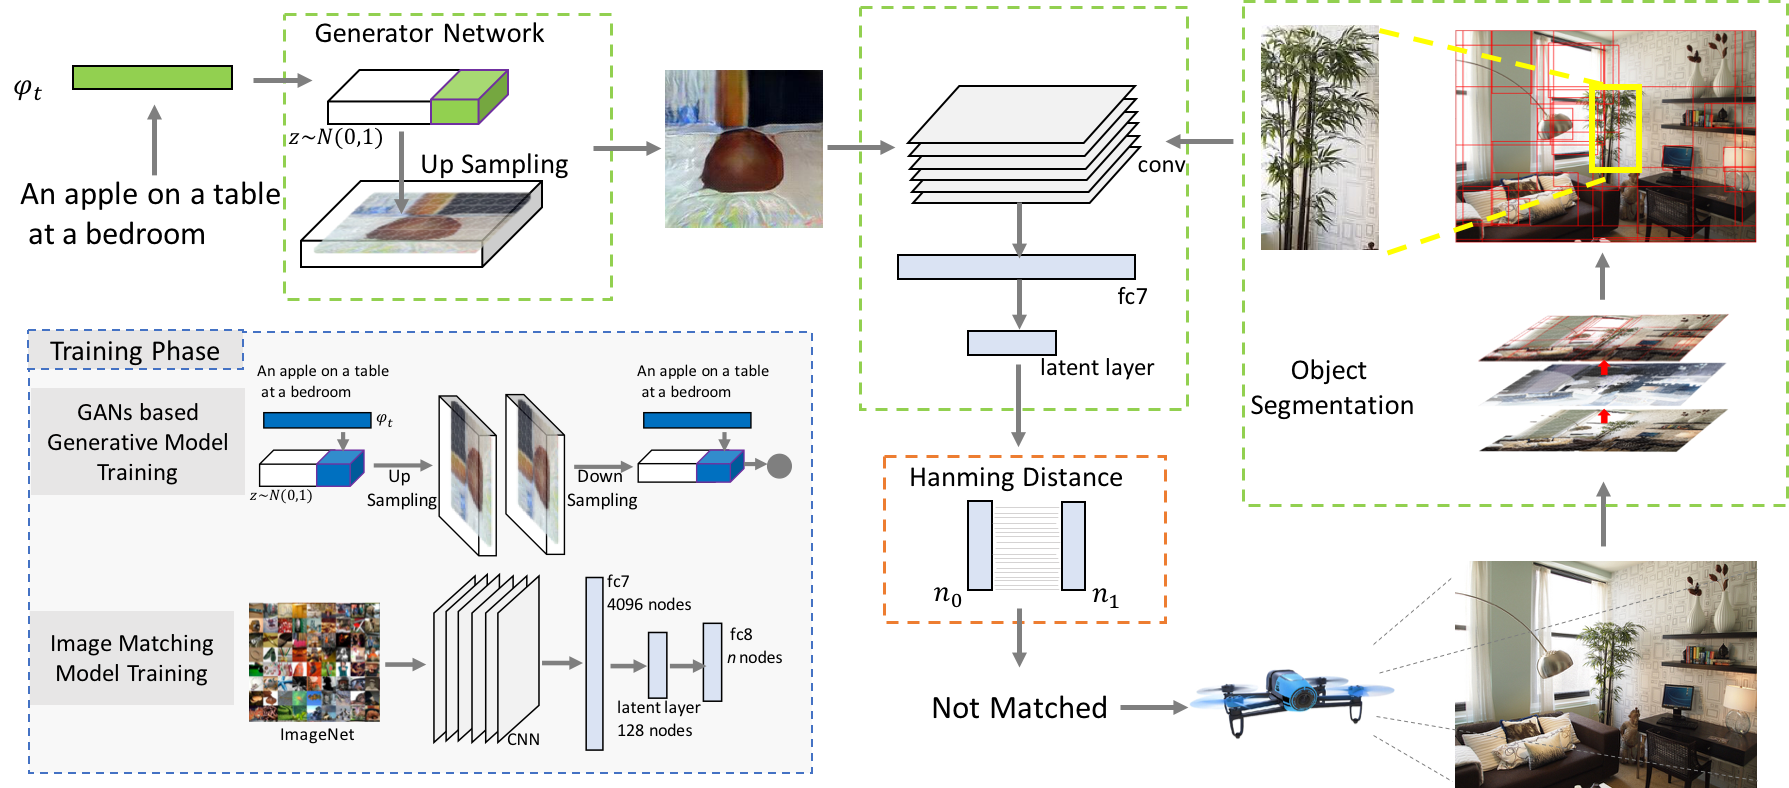
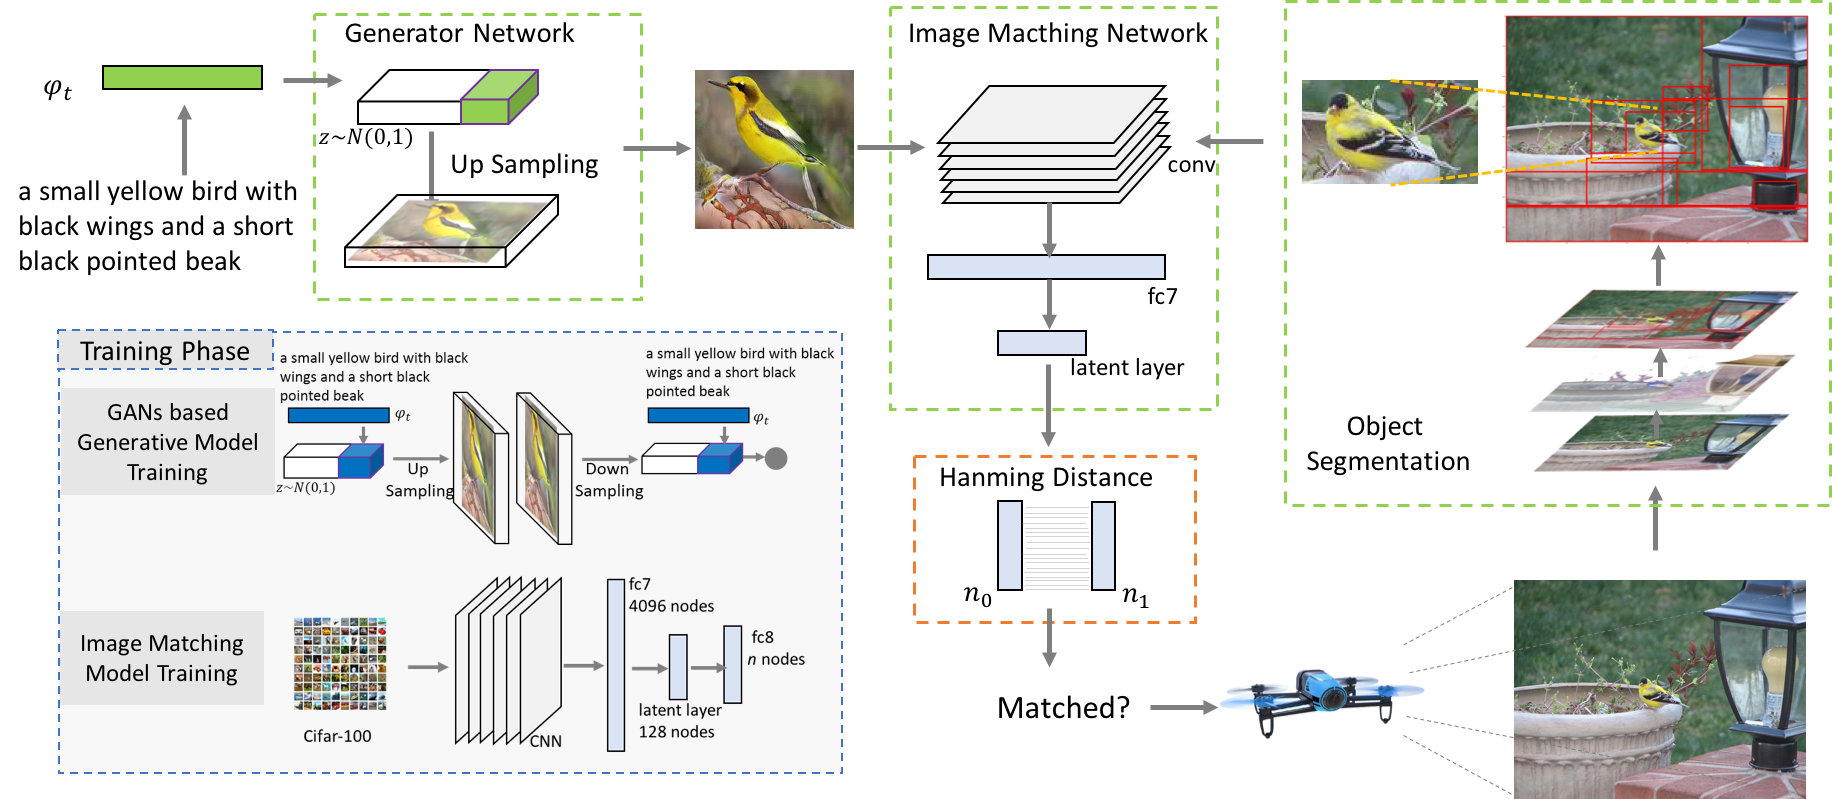
20170629

diff --git a/README.md b/README.md
@@ -42,11 +42,9 @@ Follow the "Data" process of [StackGAN](https://github.com/SelinaChe/Complex-Obj
 - Run `sh demo/birds_demo.sh` to generate bird samples from sentences. The results will be saved to `Data/birds/example_captions/`.(Need to [download](https://drive.google.com/file/d/0B0ywwgffWnLLU0F3UHA3NzFTNEE/view) the char-CNN-RNN text encoder for birds to `models/text_encoder/`. Note: this text encoder is provided by [reedscot/icml2016](https://github.com/reedscot/icml2016)).
 - Run `sh example_birds.sh` in folder "Region-to-Image_Matching/example". The result images will be stored in folder "match_images"
 
-Examples for Region-to-Image Matching for birds conditioned by "A small yellow bird with a black crown and a short black pointed beak":
-![](overview/bird_1.png) 
+Examples for Region-to-Image Matching for birds conditioned by "A small yellow bird with black wings and a short black pointed beak":
+![](overview/experiment.png) 
 
-Examples for Region-to-Image Matching for birds conditioned by "This bird is completely red with black wings and pointy beak": 
-![](overview/bird_2.png) 
 
 Examples on a Parrot Robot in real environment:
 <div align="center"><img src="overview/robots.png" width="700px" height="406px"/></div>
